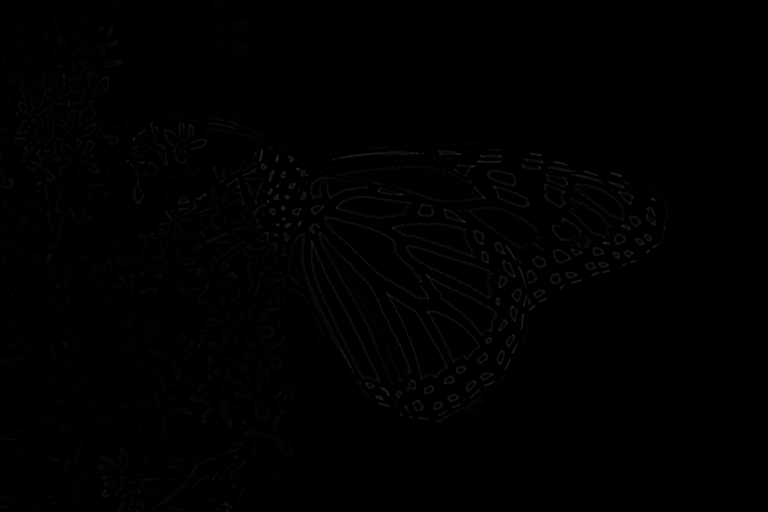
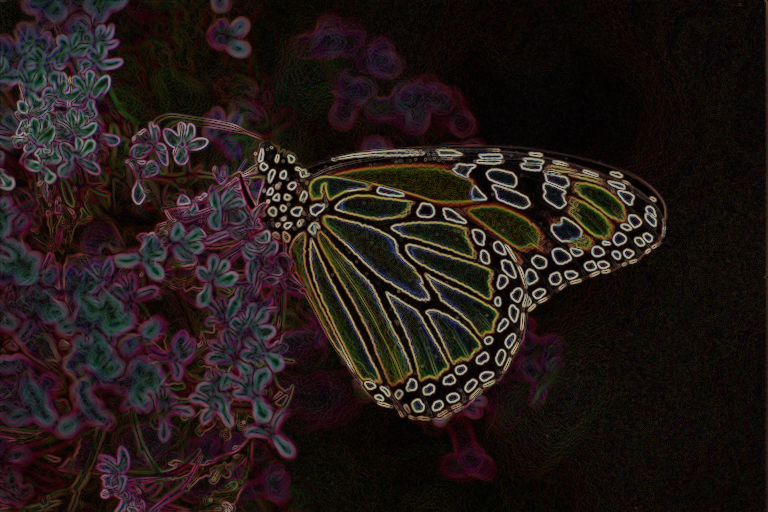
added pow operator to image object

diff --git a/crates/vara-media/image_obj.rs b/crates/vara-media/image_obj.rs
@@ -382,6 +382,22 @@ impl Image {
         Ok(this)
     }
 
+    #[lua(name="Pow")]
+    pub fn pow(this: AnyUserData,other: f32)-> mlua::Result<AnyUserData>{
+
+        {
+            let mut image = this.borrow_mut::<Image>()?;
+            
+            for pixel in image.data.chunks_exact_mut(4){
+                pixel[0] = pixel[0].powf(other);
+                pixel[1] = pixel[1].powf(other);
+                pixel[2] = pixel[2].powf(other);
+            }
+        }
+
+        Ok(this)
+    }
+
     // exporting
 
     #[lua(skip)]
@@ -459,7 +475,7 @@ impl Image {
             };
 
             match self.colour_channels {
-                1 => data.push(to_u8(red)),
+                1 => data.push(to_u8(to_srgb(red))),
                 2 => data.extend([to_u8(to_srgb(red)),to_u8(alpha)]),
                 3 => data.extend([to_u8(to_srgb(red)),to_u8(to_srgb(green)),to_u8(to_srgb(blue))]),
                 4 => data.extend([to_u8(to_srgb(red)),to_u8(to_srgb(green)),to_u8(to_srgb(blue)),to_u8(alpha)]),
